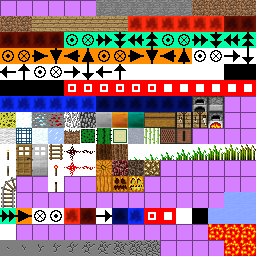
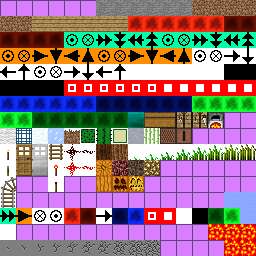
greenstone texture

Changed region(s): [[0.0, 0.4375, 0.5, 0.5], [0.75, 0.375, 1.0, 0.4375], [0.8125, 0.8125, 0.9375, 0.875]]

diff --git a/arrange-terrain.py b/arrange-terrain.py
@@ -129,6 +129,15 @@ for i in range(16):
         x = pixels[5 * 16 + i][13 * 16 + j]
         pixels[7 * 16 + i][13 * 16 + j] = (x[2], x[1], x[0], x[3])
 
+# greenstone
+for i in range(16):
+    for j in range(16):
+        x = pixels[4 * 16 + i][13 * 16 + j]
+        pixels[14 * 16 + i][13 * 16 + j] = (x[2], x[0], x[1], x[3])
+
+        x = pixels[5 * 16 + i][13 * 16 + j]
+        pixels[13 * 16 + i][13 * 16 + j] = (x[2], x[0], x[1], x[3])
+
 
 pack(1) # stone
 pack(2) # dirt
@@ -152,6 +161,9 @@ pack(9 * 16 + 10) # switch
 
 pack(9 * 16 + 8) # active bluestone
 pack(9 * 16 + 7) # inactive bluestone
+
+pack(9 * 16 + 14) # active greenstone
+pack(9 * 16 + 13) # inactive greenstone
 
 for i in range(N):
     for j in range(N):
